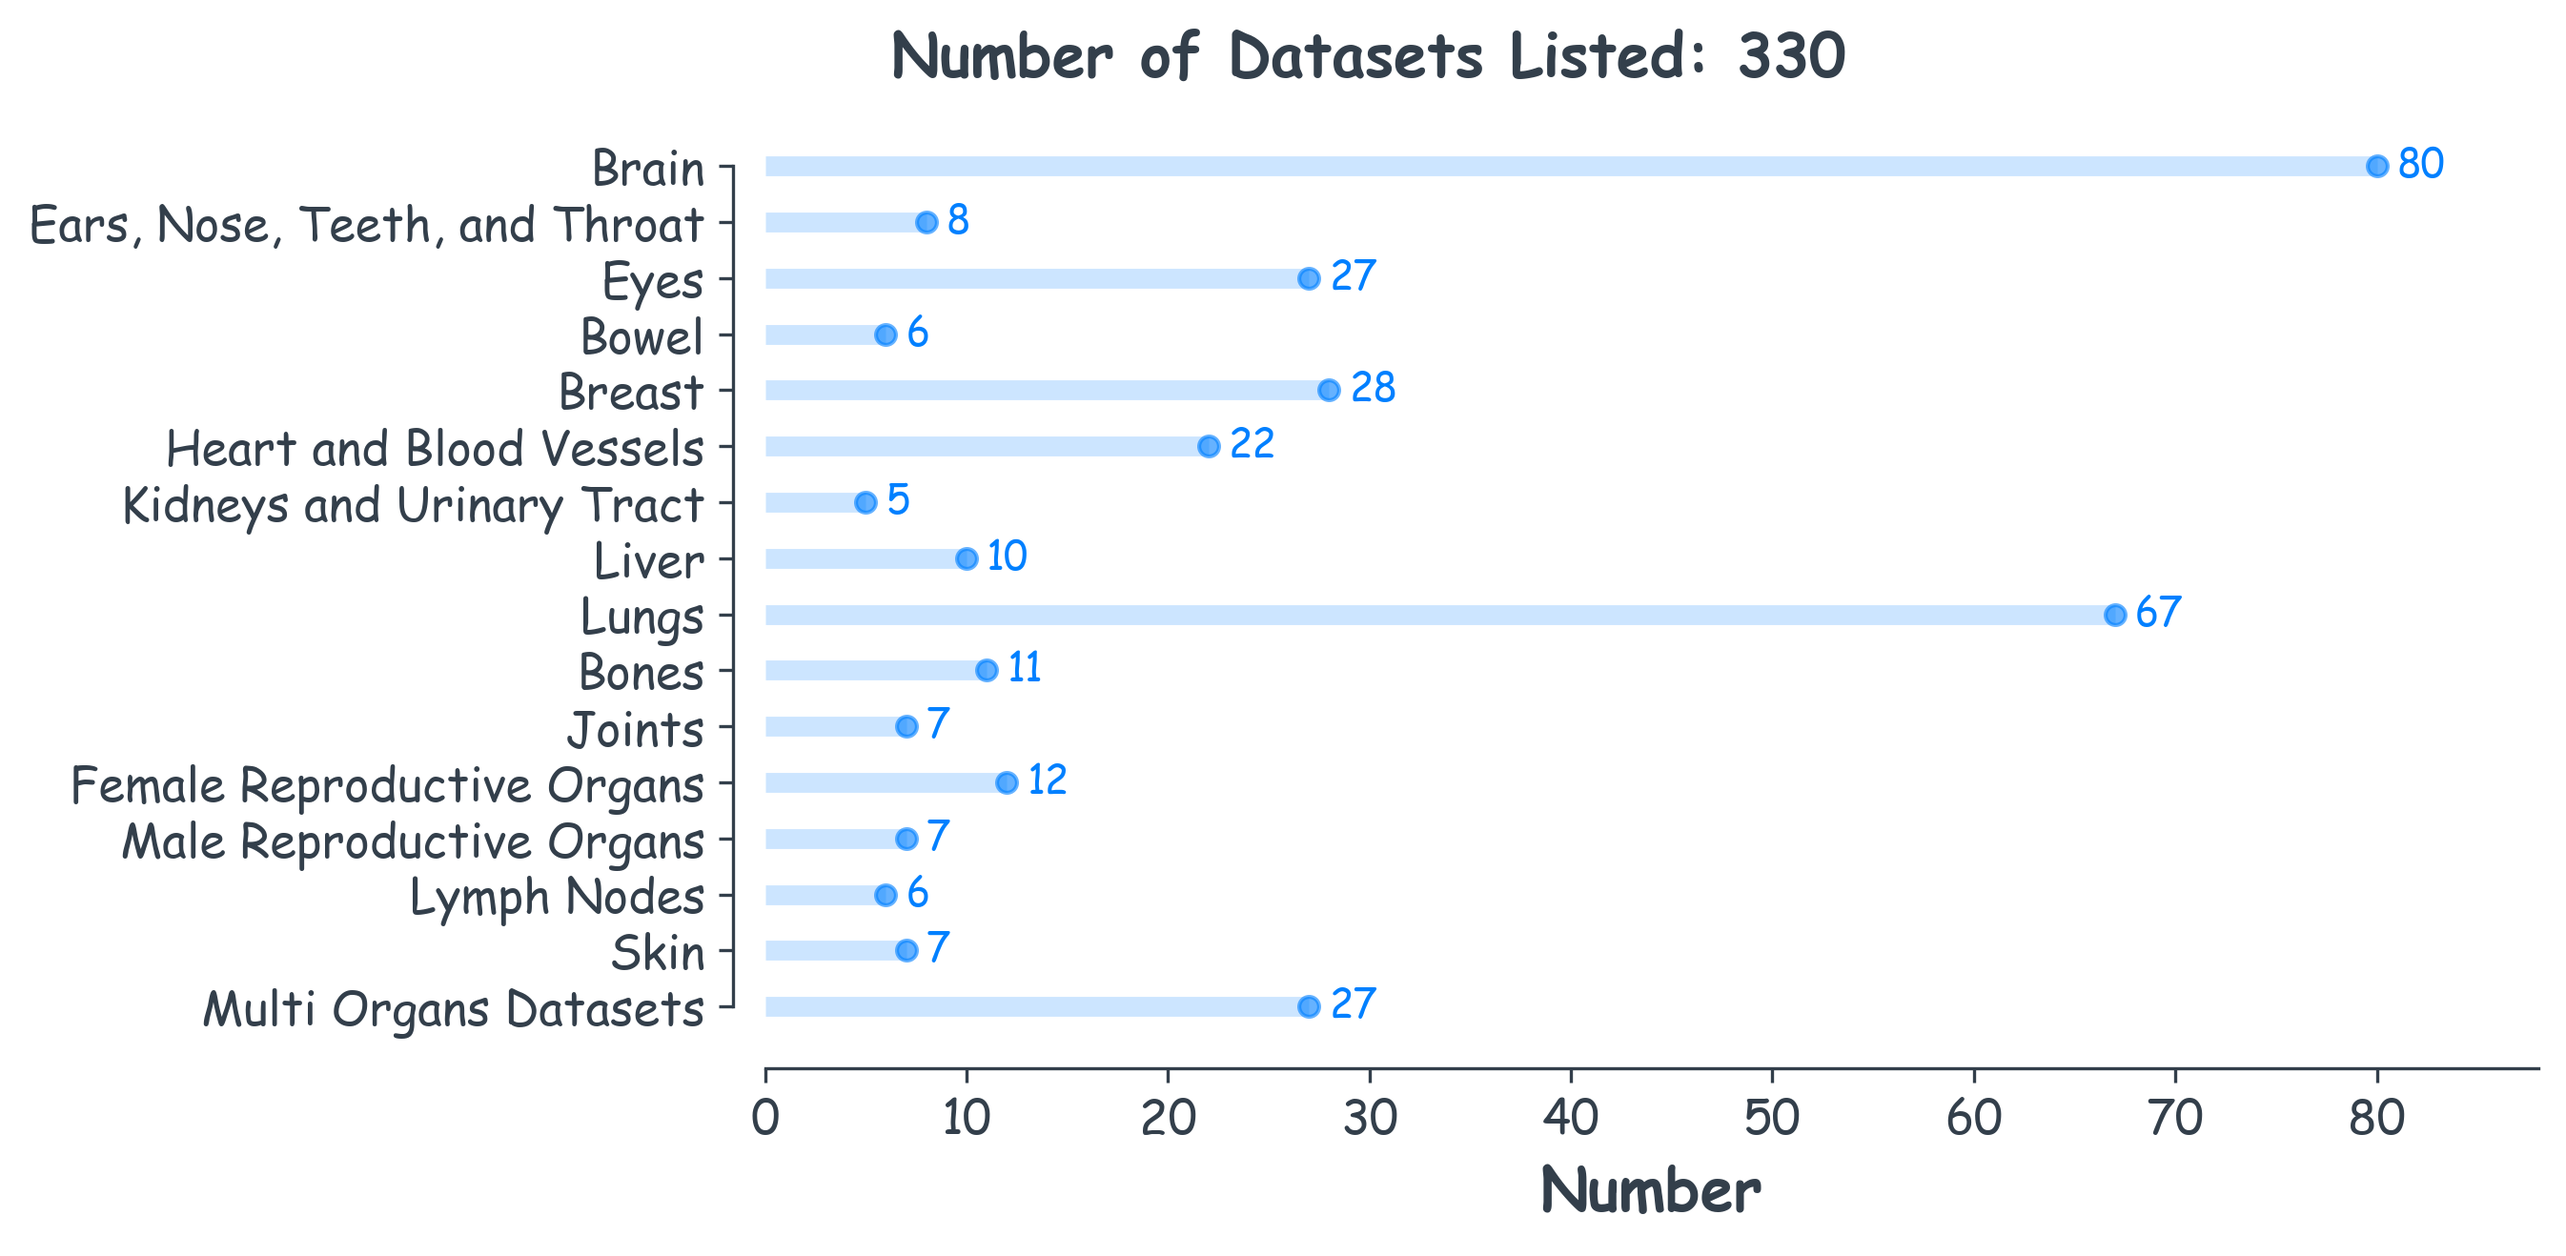
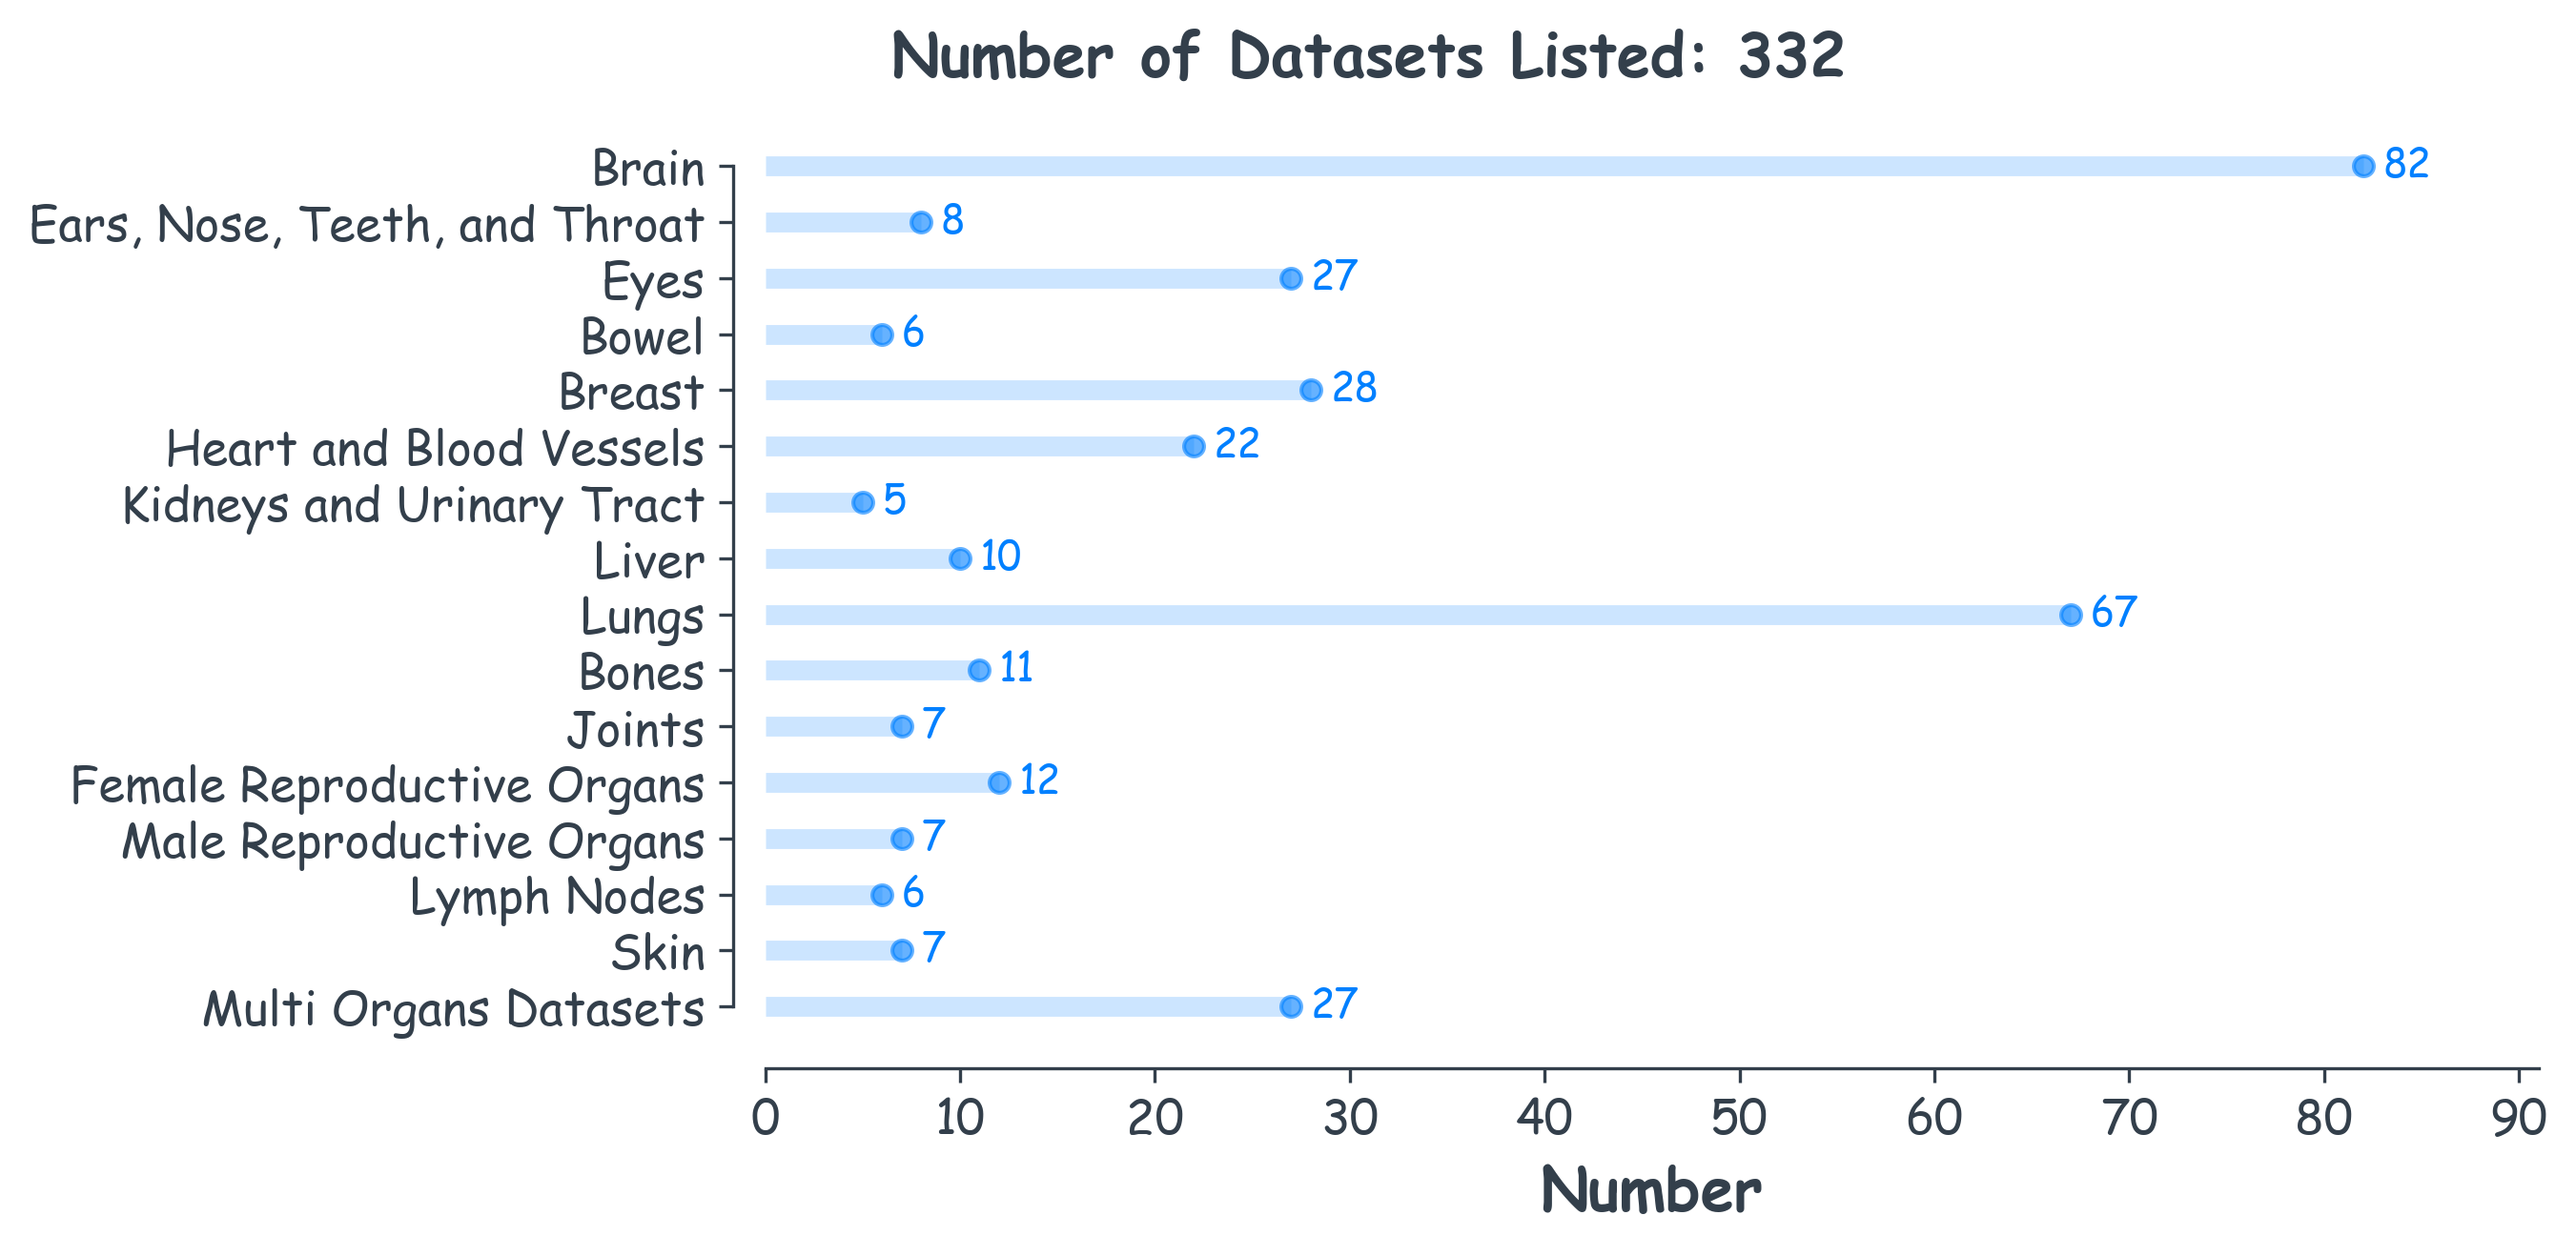
update image number, N = 332

diff --git a/src/datasetNumberImage.py b/src/datasetNumberImage.py
@@ -29,7 +29,7 @@ plt.rcParams['text.color']='#333F4B'
 
 
 data = {
-       'Brain': 80,
+       'Brain': 82,
        'Ears, Nose, Teeth, and Throat': 8, 
        'Eyes': 27,
        'Bowel': 6,
